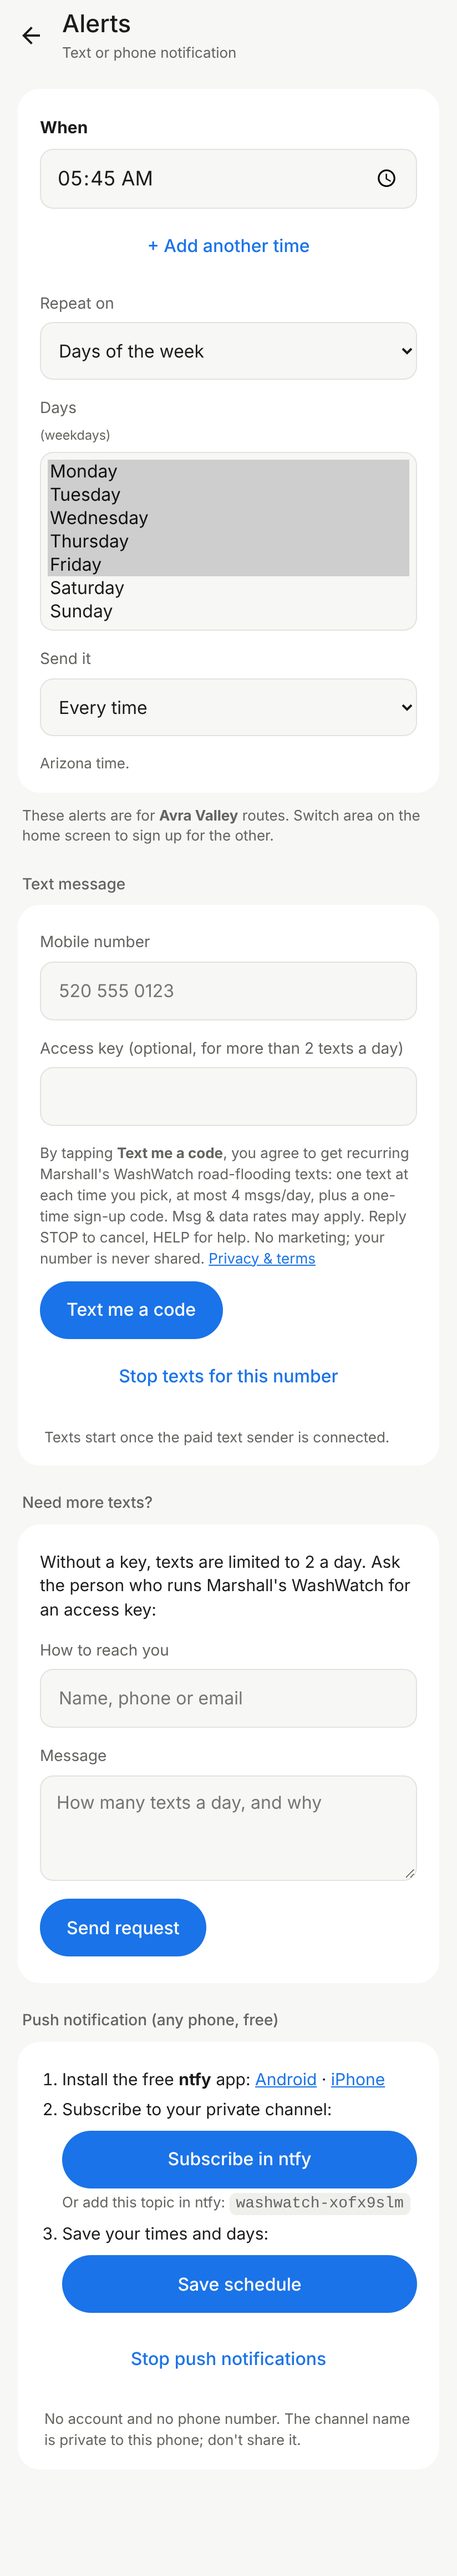
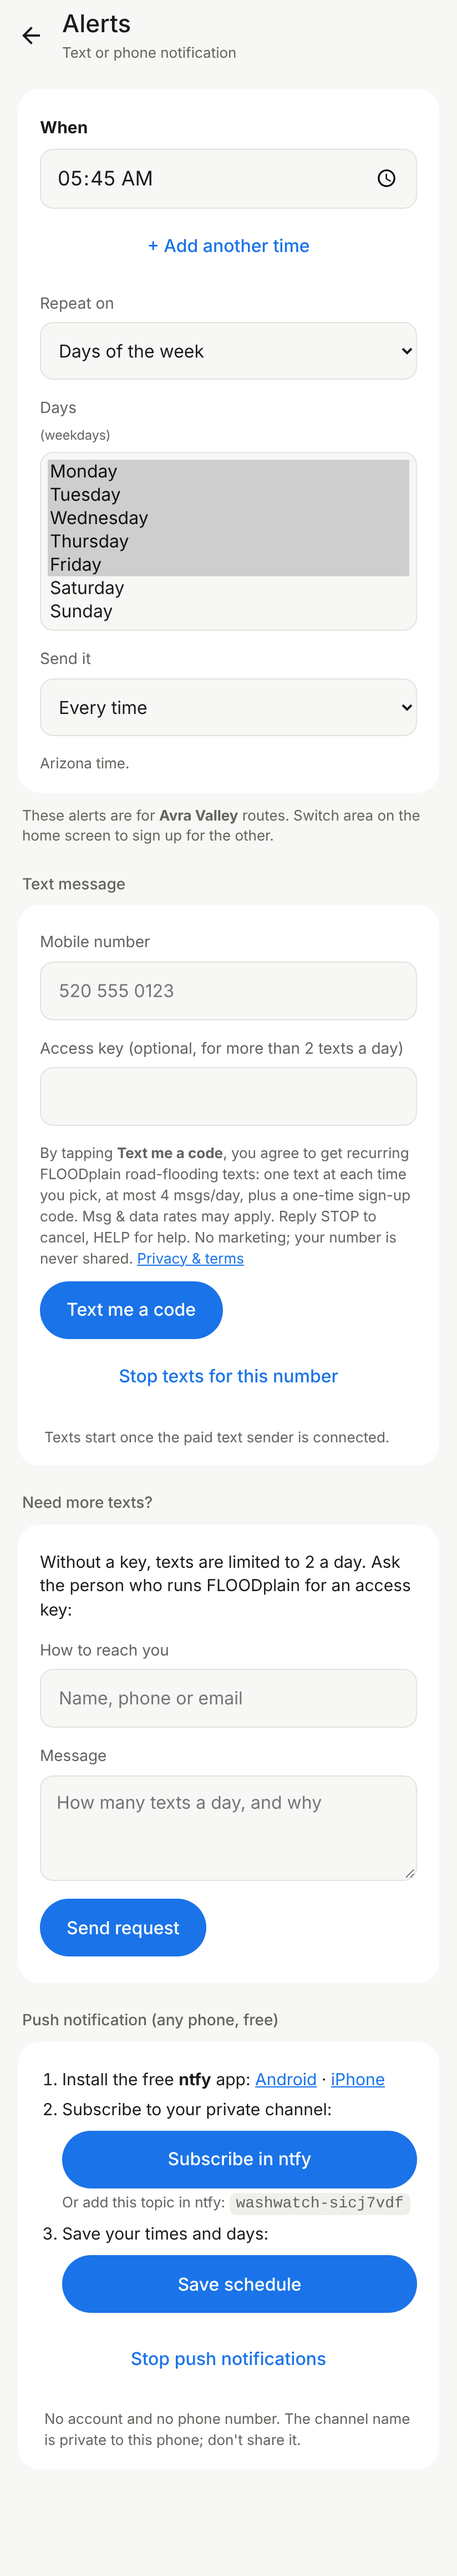
Rebrand to FLOODplain
Name across the page, app bar, home-screen icon, link preview card,
texts, privacy page and alert service; refreshed screenshots at the
same links. Push channel names and the script file link are unchanged.

Claude-Session: https://claude.ai/code/session_01CfS2a9avUEzEkdexREvSTC

Changed region(s): [[0.091, 0.4375, 0.8495, 0.5]]

diff --git a/public/app.js b/public/app.js
@@ -335,7 +335,7 @@ function alertsScreen() {
         ? `<p>Texts are on for ${esc(textFlow.phone)}. A confirmation text is on its way.</p>`
         : `<label class="field">Mobile number<input id="t-phone" type="tel" inputmode="tel" autocomplete="tel" placeholder="520 555 0123" value="${esc(textFlow.phone)}"></label>
            <label class="field">Access key (optional, for more than 2 texts a day)<input id="t-key" type="text" autocomplete="off" value="${esc(textFlow.key ?? '')}"></label>
-           <p class="consent">By tapping <b>Text me a code</b>, you agree to get recurring Marshall's WashWatch road-flooding texts: one text at each time you pick, at most 4 msgs/day, plus a one-time sign-up code. Msg &amp; data rates may apply. Reply STOP to cancel, HELP for help. No marketing; your number is never shared. <a href="#/privacy">Privacy &amp; terms</a></p>
+           <p class="consent">By tapping <b>Text me a code</b>, you agree to get recurring FLOODplain road-flooding texts: one text at each time you pick, at most 4 msgs/day, plus a one-time sign-up code. Msg &amp; data rates may apply. Reply STOP to cancel, HELP for help. No marketing; your number is never shared. <a href="#/privacy">Privacy &amp; terms</a></p>
            <button type="button" class="btn btn-primary" id="t-signup">Text me a code</button>
            <button type="button" class="btn btn-text" id="t-stop">Stop texts for this number</button>`;
   return `<div class="page">
@@ -363,7 +363,7 @@ function alertsScreen() {
   ${cfg.TEXT_API ? `<h3 class="section">Need more texts?</h3>
   <div class="page">
     ${textFlow.reqMsg ? `<p class="note">${esc(textFlow.reqMsg)}</p>` : ''}
-    <p>Without a key, texts are limited to 2 a day. Ask the person who runs Marshall's WashWatch for an access key:</p>
+    <p>Without a key, texts are limited to 2 a day. Ask the person who runs FLOODplain for an access key:</p>
     <label class="field">How to reach you<input id="r-contact" type="text" autocomplete="off" placeholder="Name, phone or email"></label>
     <label class="field">Message<textarea id="r-msg" rows="3" placeholder="How many texts a day, and why"></textarea></label>
     <button type="button" class="btn btn-primary" id="r-send">Send request</button>
@@ -456,7 +456,7 @@ function wireReport() {
         const r = await fetch(`https://ntfy.sh/${cfg.REPORT_TOPIC}`, { method: 'POST', body, headers: { Title: `Crossing report: ${report.crossing}` } });
         if (!r.ok) throw new Error(`HTTP ${r.status}`);
       }
-      reportMsg = "Thanks! Sent. It goes straight to the person who runs Marshall's WashWatch.";
+      reportMsg = "Thanks! Sent. It goes straight to the person who runs FLOODplain.";
       location.replace('#/report');
     } catch (e) { reportMsg = 'Couldn’t send just now. Try again in a minute.'; }
     render();
@@ -466,15 +466,15 @@ function wireReport() {
 function privacyScreen() {
   return `<div class="page">
     <h4>What you get</h4>
-    <p>Marshall's WashWatch is a free, non-commercial road-flooding guide for Avra Valley, AZ. If you sign up for texts, you get a short message with the current flood risk for the routes between Avra Valley and I-10, one text at each time you choose, at most 4 texts a day, plus a one-time sign-up code. No marketing.</p>
+    <p>FLOODplain is a free, non-commercial road-flooding guide for Avra Valley, AZ. If you sign up for texts, you get a short message with the current flood risk for the routes between Avra Valley and I-10, one text at each time you choose, at most 4 texts a day, plus a one-time sign-up code. No marketing.</p>
     <h4>Signing up and stopping</h4>
     <p>You sign up on the Alerts page and confirm with a 4-digit code we text you. To stop, reply <b>STOP</b> to any message or use <b>Stop texts</b> on the Alerts page. Reply <b>HELP</b> for help. Message and data rates may apply. Carriers aren't liable for delayed or undelivered messages.</p>
     <h4>Your information</h4>
-    <p>We keep only your phone number, the times and days you chose, and when we last texted you. It's stored privately by the person who runs Marshall's WashWatch and used only to send these texts. It's never sold, shared or used for marketing. Stopping texts deletes your number.</p>
+    <p>We keep only your phone number, the times and days you chose, and when we last texted you. It's stored privately by the person who runs FLOODplain and used only to send these texts. It's never sold, shared or used for marketing. Stopping texts deletes your number.</p>
     <h4>No guarantee</h4>
     <p>Ratings come from public, provisional data (USGS, Pima County, National Weather Service) and can be late or wrong. What you see at the crossing comes first. Never drive into water crossing the road.</p>
     <h4>Contact</h4>
-    <p>Reply HELP to any Marshall's WashWatch text to reach the person who runs it.</p>
+    <p>Reply HELP to any FLOODplain text to reach the person who runs it.</p>
   </div>`;
 }
 function sourcesScreen() {
@@ -492,10 +492,10 @@ function render() {
   $('#logo').hidden = sub;
   $('#refresh').hidden = sub && !['route', 'stretch'].includes(w.screen);
   const titles = {
-    home: ["Marshall's WashWatch", subtitle()],
+    home: ["FLOODplain", subtitle()],
     route: [ROUTE_INFO[w.route]?.name, 'Route'],
     stretch: [view.fpResults[w.fp]?.short, ROUTE_INFO[w.route]?.name],
-    how: ['How to read this', ''], settings: ['Settings', ''], sources: ['Sources', ''], alerts: ['Alerts', 'Text or phone notification'], report: ['Help fill the gaps', 'Tell us about a crossing'], privacy: ['Privacy & terms', "Marshall's WashWatch texts"],
+    how: ['How to read this', ''], settings: ['Settings', ''], sources: ['Sources', ''], alerts: ['Alerts', 'Text or phone notification'], report: ['Help fill the gaps', 'Tell us about a crossing'], privacy: ['Privacy & terms', "FLOODplain texts"],
   }[w.screen];
   $('#title').textContent = titles[0] ?? '';
   $('#subtitle').textContent = titles[1] ?? '';

diff --git a/public/index.html b/public/index.html
@@ -7,15 +7,15 @@
   <meta name="theme-color" content="#141414" media="(prefers-color-scheme: dark)">
   <meta name="apple-mobile-web-app-capable" content="yes">
   <meta name="mobile-web-app-capable" content="yes">
-  <title>Marshall's WashWatch</title>
+  <title>FLOODplain</title>
   <meta name="description" content="Which road between Avra Valley and I-10 has the least going against it right now: river gauges, rain gauges, county barricades and weather alerts in one place.">
   <link rel="manifest" href="manifest.webmanifest">
   <link rel="icon" href="icons/logo.svg" type="image/svg+xml">
   <link rel="icon" href="icons/icon-192.png" sizes="192x192">
   <link rel="apple-touch-icon" href="icons/apple-touch-icon.png">
-  <meta name="apple-mobile-web-app-title" content="WashWatch">
+  <meta name="apple-mobile-web-app-title" content="FLOODplain">
   <meta property="og:type" content="website">
-  <meta property="og:title" content="Marshall's WashWatch: Avra Valley &amp; Picture Rocks ↔ I-10">
+  <meta property="og:title" content="FLOODplain: Avra Valley &amp; Picture Rocks ↔ I-10">
   <meta property="og:description" content="Which road has the least going against it right now: river gauges, rain gauges, county barricades and weather alerts in one place.">
   <meta property="og:image" content="https://godfather38.github.io/FLOODplain/icons/og-card.png">
   <meta property="og:image:width" content="1200">
@@ -31,7 +31,7 @@
     </button>
     <img id="logo" class="logo" src="icons/logo.svg" alt="" width="36" height="36">
     <div class="titles">
-      <h1 id="title">Marshall's WashWatch</h1>
+      <h1 id="title">FLOODplain</h1>
       <p id="subtitle">Avra Valley ↔ I-10</p>
     </div>
     <button id="refresh" class="icon-btn" type="button" aria-label="Check again">

diff --git a/public/engine.js b/public/engine.js
@@ -49,7 +49,7 @@ export function message(best, order, rated, missing, now, area = 'avra') {
   const name = (r) => cfg.ROUTE_INFO[r.id].name;
   const issue = (r) => { const a = againstIt(r)[0]; return a ? `${a.short}: ${a.why}` : null; };
   const text = [
-    `WashWatch${areaName}: take ${name(best)} (${best.score}/5 ${WORD[best.score]}, ${Math.round(best.minutes)} min).`,
+    `FLOODplain${areaName}: take ${name(best)} (${best.score}/5 ${WORD[best.score]}, ${Math.round(best.minutes)} min).`,
     issue(best) ? `Watch for ${issue(best)}.` : null,
     `Others: ${order.filter((r) => r !== best).map((r) => `${name(r)} ${r.score}`).join(', ')}.`,
     ...order.filter((r) => r !== best && r.score >= 4).map((r) => `${name(r)}: ${issue(r)}.`),
@@ -59,10 +59,10 @@ export function message(best, order, rated, missing, now, area = 'avra') {
   return {
     at: new Date(now).toISOString(),
     text,
-    sms: text.replace(/^WashWatch(?: \(([^)]+)\))?: /, (m, ar) => (ar ? `${ar}: ` : '')).replace(/ https:\S+/, ''),
+    sms: text.replace(/^FLOODplain(?: \(([^)]+)\))?: /, (m, ar) => (ar ? `${ar}: ` : '')).replace(/ https:\S+/, ''),
     spoken: text.replace(/ https:\S+/, '').replace(/(\d)\/5/g, '$1 out of 5').replace(/–/g, ' and '),
     off: rated.some((r) => r.score >= 2),
-    title: `Marshall's WashWatch${areaName}: ${name(best)} ${best.score}/5`,
+    title: `FLOODplain${areaName}: ${name(best)} ${best.score}/5`,
   };
 }
 

diff --git a/public/config.js b/public/config.js
@@ -1,4 +1,4 @@
-// Everything WashWatch knows about the routes, failure points and data.
+// Everything FLOODplain knows about the routes, failure points and data.
 // Plain-language definitions of each failure point: docs/FAILURE-POINTS.md
 
 export const SOURCES = {

diff --git a/CLAUDE.md b/CLAUDE.md
@@ -14,6 +14,7 @@
 - **The repo is public.** Never commit the owner's home address. Routes start at W El Tiro Rd & N Trico Rd.
 
 ## Project facts
+- Brand: **FLOODplain** (custom domain floodplain.duckdns.org via DuckDNS). The app's own links stay on godfather38.github.io, which GitHub forwards to the custom domain once it's set in Pages settings. Push topics keep the `washwatch-` prefix and the script file stays `apps-script/WashWatch.gs` so existing links and subscriptions don't break.
 - The static app is in `public/`. It's published by `.github/workflows/pages.yml` to https://godfather38.github.io/FLOODplain/.
 - GitHub Pages only deploys from the repo's **default branch**, which is still `ccr-ae06b197-a01a6o`. To publish: `git push origin main && git push origin main:ccr-ae06b197-a01a6o`. Once the default branch is `main`, pushing `main` is enough.
 - Pima ALERT rain/stream data is copied every ~10 min to the `data` branch by `.github/workflows/alert-snapshot.yml`.

diff --git a/README.md b/README.md
@@ -1,4 +1,4 @@
-# Marshall's WashWatch (FLOODplain)
+# FLOODplain
 
 A check of the roads between Avra Valley, AZ and I-10, either direction. It reads live USGS stream gauges at each river crossing and recommends a route. It's a hobby tool, not an official warning.
 
